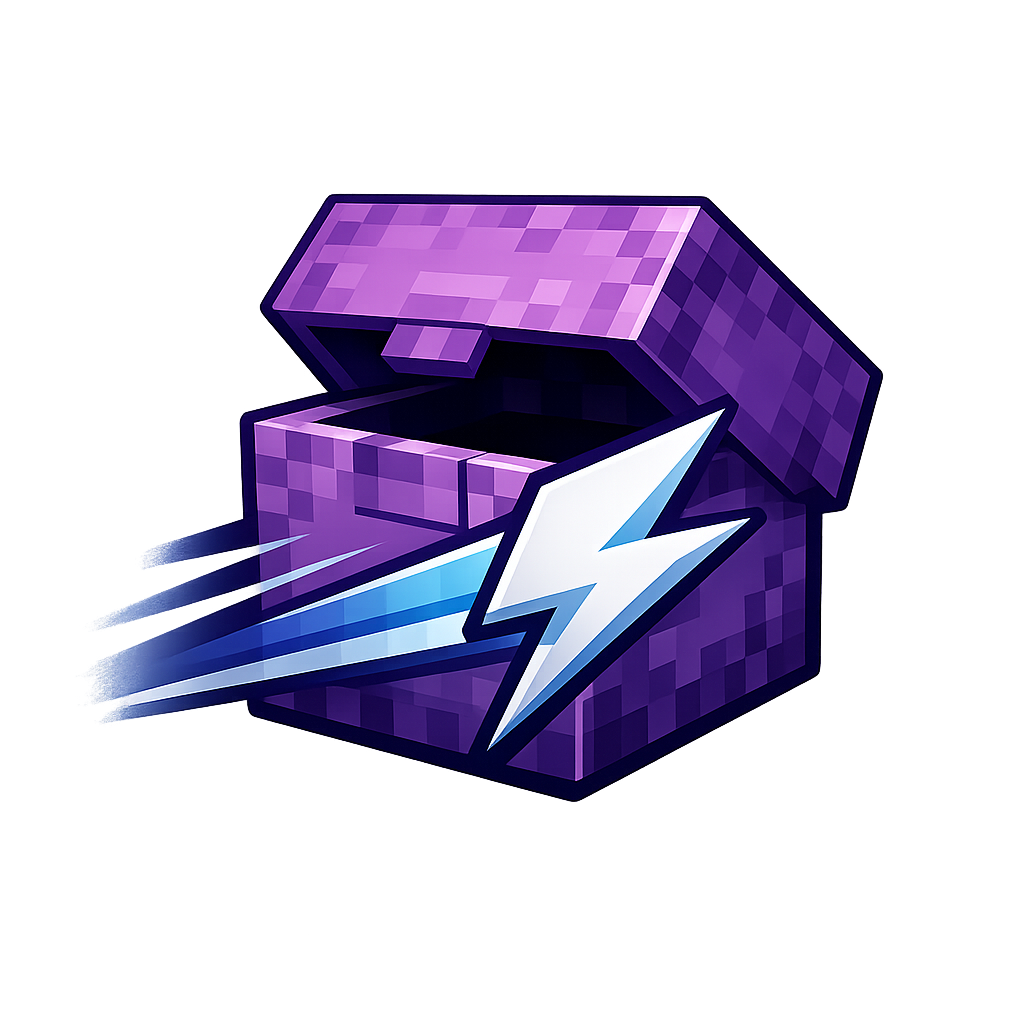
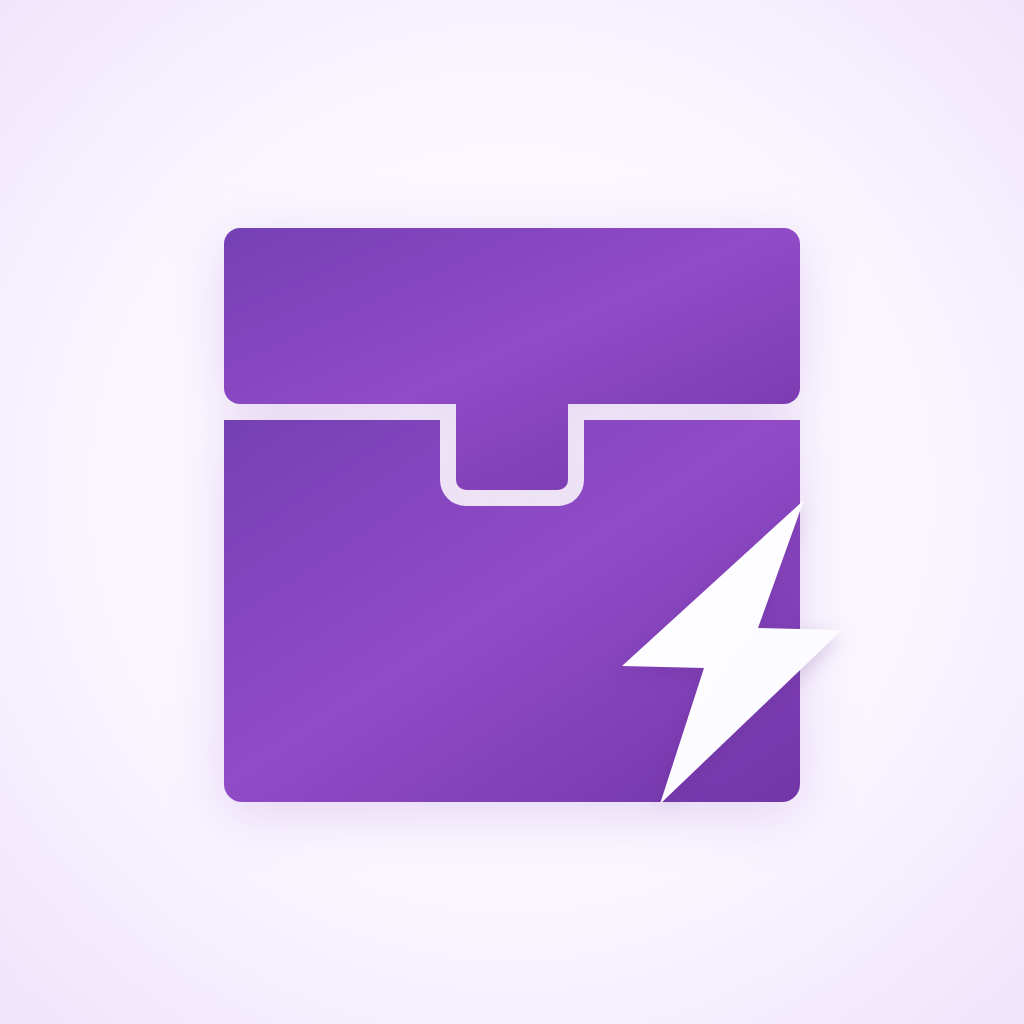
Prepare 3.0.4 release for Minecraft 26.2

diff --git a/README.md b/README.md
@@ -11,8 +11,8 @@
 
 | Fork branch | Minecraft | Exact upstream baseline | Upstream commit | Fork version | Public API |
 | :--- | :--- | :--- | :--- | :--- | :--- |
-| `main` | 26.2 | `3.0.2-26.2` | [`ae16c41`](https://github.com/MoRanpcy/quickshulker/commit/ae16c419206a79c9d1a866e79bd74dd38e3f47a5) | `3.0.3-26.2` | Fully compatible |
-| `26.1` | 26.1 | `3.0.0-26.1` | [`ef2f380`](https://github.com/MoRanpcy/quickshulker/commit/ef2f3808ac8cc9ad469fb0034a8e5135380e032e) | `3.0.3-26.1` | Fully compatible |
+| `main` | 26.2 | `3.0.2-26.2` | [`ae16c41`](https://github.com/MoRanpcy/quickshulker/commit/ae16c419206a79c9d1a866e79bd74dd38e3f47a5) | `3.0.4-26.2` | Fully compatible |
+| `26.1` | 26.1 | `3.0.0-26.1` | [`ef2f380`](https://github.com/MoRanpcy/quickshulker/commit/ef2f3808ac8cc9ad469fb0034a8e5135380e032e) | `3.0.4-26.1` | Fully compatible |
 
 The table records the exact commits from which the fork branches were derived, not the current versions of the upstream branches.
 
@@ -39,8 +39,8 @@ Download this fork from [GitHub Releases](https://github.com/water2004/quickshul
 
 | Branch | Minecraft | Artifact |
 | :--- | :--- | :--- |
-| `main` | 26.2 | `quickshulker-3.0.3-26.2.jar` |
-| `26.1` | 26.1 | `quickshulker-3.0.3-26.1.jar` |
+| `main` | 26.2 | `quickshulker-3.0.4-26.2.jar` |
+| `26.1` | 26.1 | `quickshulker-3.0.4-26.1.jar` |
 
 ---
 

diff --git a/README_CN.md b/README_CN.md
@@ -11,8 +11,8 @@
 
 | Fork 分支 | Minecraft | 确切上游基线 | 上游提交 | Fork 版本 | 公共 API |
 | :--- | :--- | :--- | :--- | :--- | :--- |
-| `main` | 26.2 | `3.0.2-26.2` | [`ae16c41`](https://github.com/MoRanpcy/quickshulker/commit/ae16c419206a79c9d1a866e79bd74dd38e3f47a5) | `3.0.3-26.2` | 完全兼容 |
-| `26.1` | 26.1 | `3.0.0-26.1` | [`ef2f380`](https://github.com/MoRanpcy/quickshulker/commit/ef2f3808ac8cc9ad469fb0034a8e5135380e032e) | `3.0.3-26.1` | 完全兼容 |
+| `main` | 26.2 | `3.0.2-26.2` | [`ae16c41`](https://github.com/MoRanpcy/quickshulker/commit/ae16c419206a79c9d1a866e79bd74dd38e3f47a5) | `3.0.4-26.2` | 完全兼容 |
+| `26.1` | 26.1 | `3.0.0-26.1` | [`ef2f380`](https://github.com/MoRanpcy/quickshulker/commit/ef2f3808ac8cc9ad469fb0034a8e5135380e032e) | `3.0.4-26.1` | 完全兼容 |
 
 表中记录的是 fork 分支实际派生时使用的确切提交，而不是上游分支目前的版本号。
 
@@ -39,8 +39,8 @@
 
 | 分支 | Minecraft | 文件 |
 | :--- | :--- | :--- |
-| `main` | 26.2 | `quickshulker-3.0.3-26.2.jar` |
-| `26.1` | 26.1 | `quickshulker-3.0.3-26.1.jar` |
+| `main` | 26.2 | `quickshulker-3.0.4-26.2.jar` |
+| `26.1` | 26.1 | `quickshulker-3.0.4-26.1.jar` |
 
 ---
 

diff --git a/RELEASE_NOTE.md b/RELEASE_NOTE.md
@@ -1,12 +1,10 @@
-# QuickShulker 3.0.3
+# QuickShulker 3.0.4
 
-This release adds client-optional bundle screens for Fabric servers.
+This maintenance release introduces a new, clean QuickShulker logo recreated as a maintainable SVG source.
 
-- Vanilla clients can join a QuickShulker server while bundle opening is enabled.
-- Unmodded clients receive a server-side paged vanilla container.
-- Modded clients retain the existing scrolling 64-slot bundle interface.
-- The custom bundle `MenuType` registry entry has been removed.
-- Enhanced bundle interactions use vanilla open-screen, slot-sync, click, drag, and close packets after the initial QuickShulker request.
-- Builds are provided for Minecraft 26.2 and 26.1.
+- The box body's side edges now align exactly with the lid.
+- The rendered PNG icon is included for Fabric and launcher compatibility.
+- Public API signatures remain fully compatible with 3.0.3 and upstream integrations.
+- Builds are provided for Minecraft 26.2.x and 26.1.x.
 
 This repository is a fork of [MoRanpcy/quickshulker](https://github.com/MoRanpcy/quickshulker), based on the original [kyrptonaught/quickshulker](https://github.com/kyrptonaught/quickshulker).
